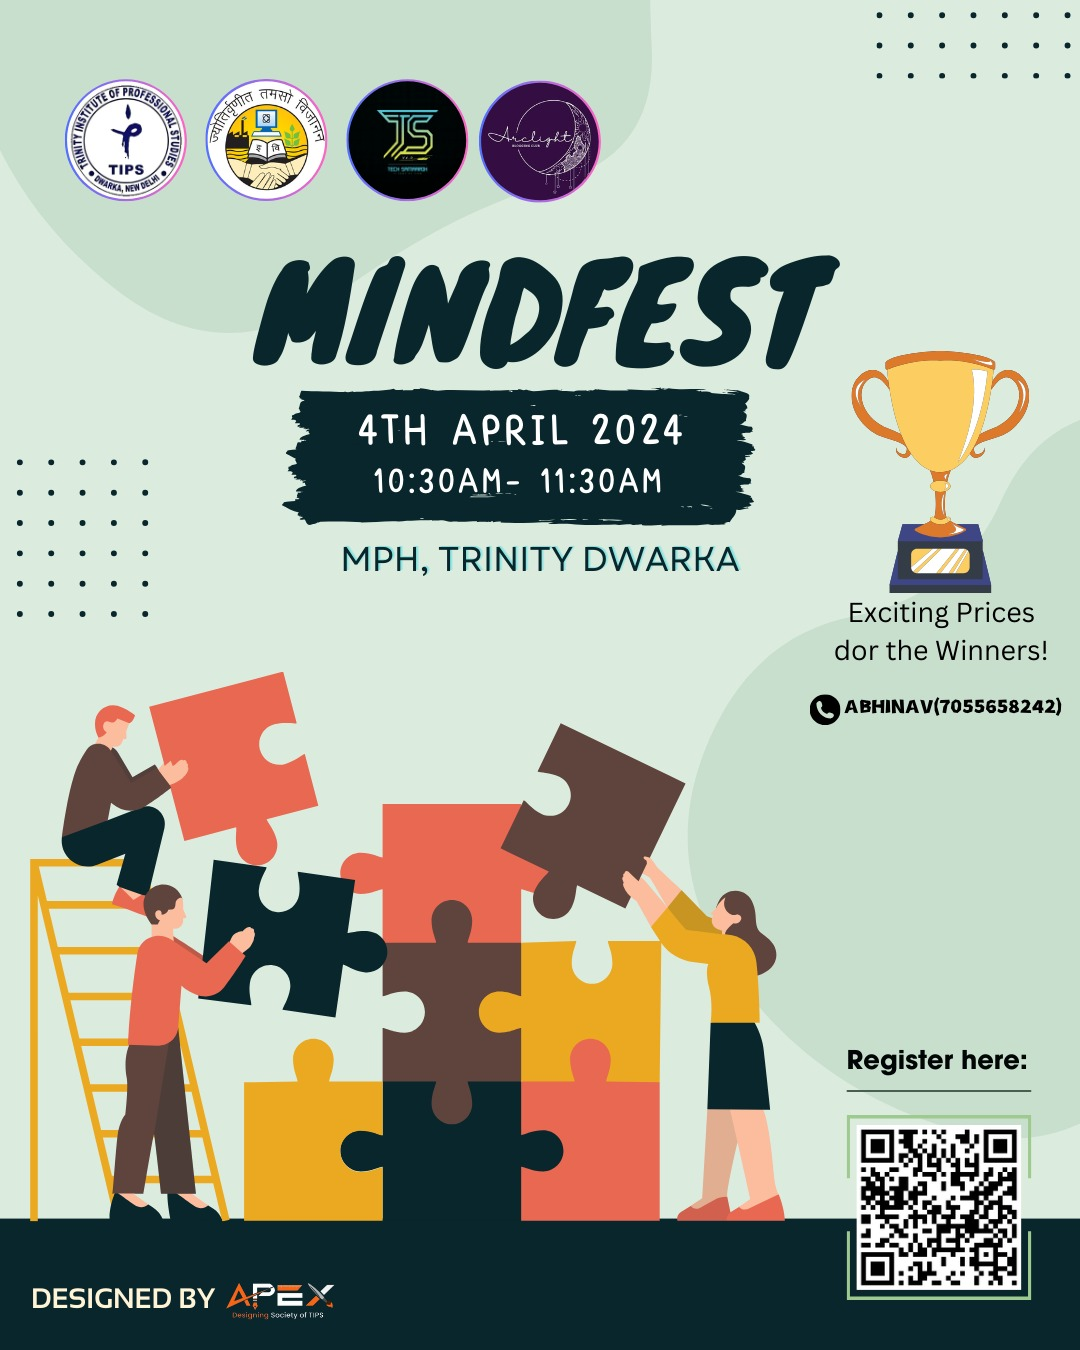
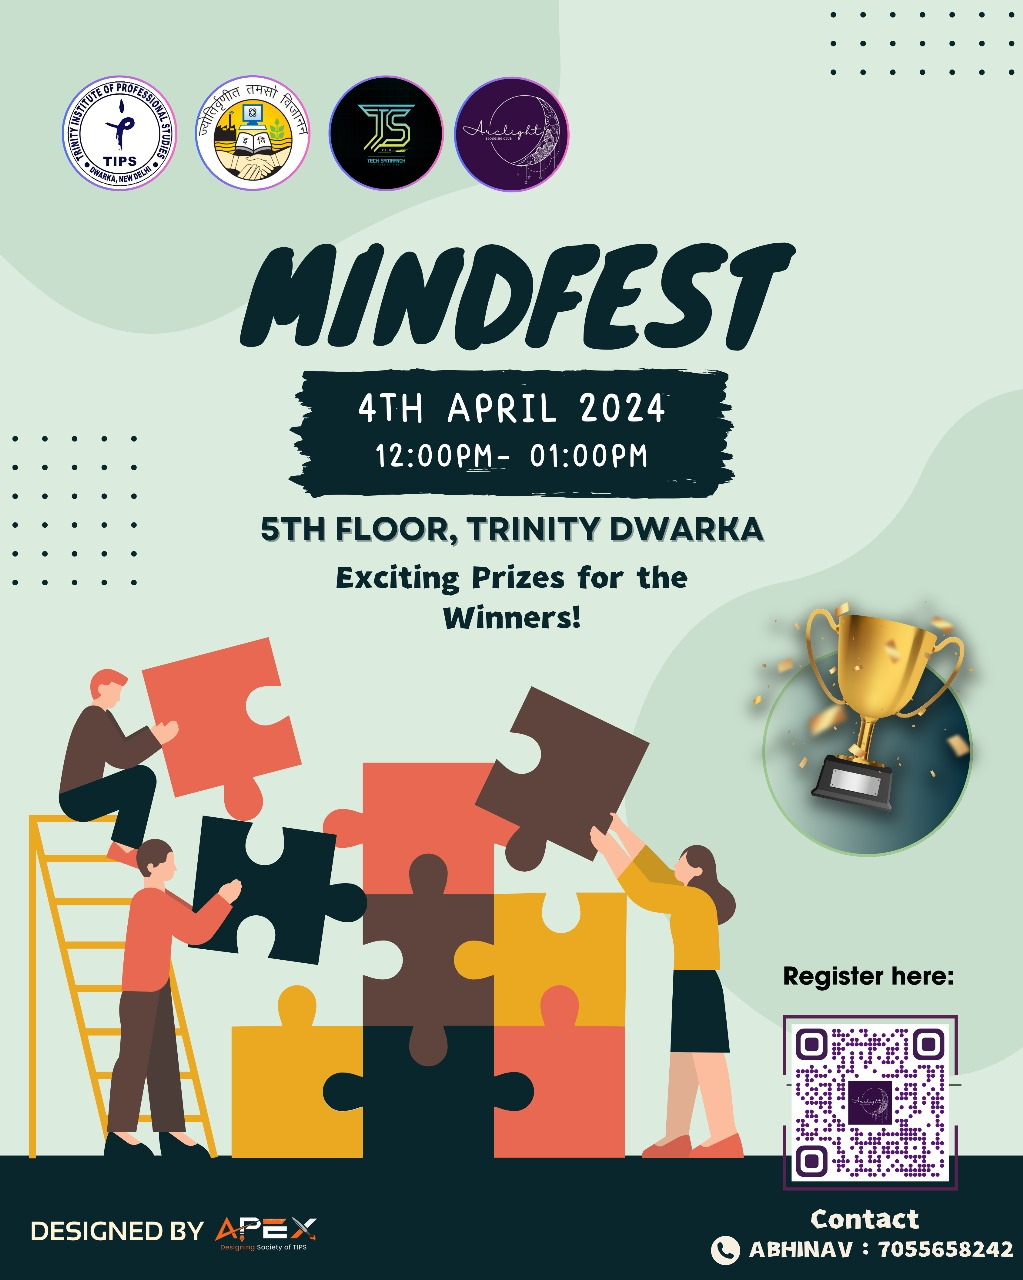
upfdhgfduiopqwer

diff --git a/index.html b/index.html
@@ -78,15 +78,6 @@
       </p>
     </div>
   </div>
-
-  <!-- 
-       aksh bhaiya se puchna hai!
-       1.title logo
-       2.compressing images to reduce load
-
-       * CSS at the top in the header.
-       * Javascript at the bottom of the file.
-  -->
   <div class="thirdPage w-full h-auto overflow-hidden" id="thirdPage">
     <div class="cardTop details h-[10vh] flex justify-center items-center">
       <h1 class="text-6xl font-medium text-white font-[poppins]" data-aos="zoom-in" data-aos-offset="120">Events</h1>
@@ -118,7 +109,7 @@
         <button><a href="html/Aimagination.html">Know More</a></button>
       </div>
       <div class="card card6" data-aos="zoom-in" data-aos-offset="200">
-        <img src="images/img4.png" alt="">
+        <img src="images/img4.jpg" alt="">
         <h1>Flag Pursuit</h1>
         <button><a href="html/flag-pursuit.html">Know More</a></button>
       </div>
@@ -138,7 +129,7 @@
         <button><a href="html/wordcraft.html">Know More</a></button>
       </div>
       <div class="card card10" data-aos="zoom-in" data-aos-offset="200">
-        <img src="images/img10.png" alt="">
+        <img src="images/img10.jpg" alt="">
         <h1>Nukkad Natak</h1>
         <button><a href="html/nukkadnatak.html">Know More</a></button>
       </div>

diff --git a/html/flag-pursuit.html b/html/flag-pursuit.html
@@ -5,7 +5,7 @@
     <meta charset="UTF-8">
     <meta name="viewport" content="width=device-width, initial-scale=1.0">
     <title>Flag Pursuit</title>
-    <link rel="icon" href="../images/logo.png" />
+    <link rel="icon" href="../images/TS.png" />
     <link rel="stylesheet" href="../css/style1.css">
     <script src="https://kit.fontawesome.com/e64b4eb724.js" crossorigin="anonymous"></script>
 </head>
@@ -24,7 +24,7 @@
     <div class="top">
         <div class="card">
             <div class="bannerimg bannerimg6">
-                <img src="../images/img4.png" alt="">
+                <img src="../images/img4.jpg" alt="">
             </div>
             <div class="innercard">
                 <h1>Flag Pursuit</h1><br>
@@ -82,7 +82,7 @@
                     </div>
                     <div class="card card3">
                         <h1>Venue</h1>
-                        <p>3rd Floor Lab</p>
+                        <p>3rd Floor</p>
                     </div>
                 </div>
                 <div class="btnregis">

diff --git a/html/mindfest.html b/html/mindfest.html
@@ -5,7 +5,7 @@
     <meta charset="UTF-8">
     <meta name="viewport" content="width=device-width, initial-scale=1.0">
     <title>Mind Fest</title>
-    <link rel="icon" href="../images/logo.png" />
+    <link rel="icon" href="../images/TS.png" />
     <link rel="stylesheet" href="../css/style1.css">
     <script src="https://kit.fontawesome.com/e64b4eb724.js" crossorigin="anonymous"></script>
 </head>
@@ -54,11 +54,11 @@
                         </div>
                         <div class="card card2">
                             <h1>Time</h1>
-                            <p>10:30 AM - 11:30 PM</p>
+                            <p>12:00 PM - 1:00 PM</p>
                         </div>
                         <div class="card card3">
                             <h1>Venue</h1>
-                            <p>MPH</p>
+                            <p>5th Floor</p>
                         </div>
                     </div>
                     <div class="btnregis">

diff --git a/html/wordcraft.html b/html/wordcraft.html
@@ -5,7 +5,7 @@
     <meta charset="UTF-8">
     <meta name="viewport" content="width=device-width, initial-scale=1.0">
     <title>WordCraft</title>
-    <link rel="icon" href="../images/logo.png" />
+    <link rel="icon" href="../images/TS.png" />
     <link rel="stylesheet" href="../css/style1.css">
     <script src="https://kit.fontawesome.com/e64b4eb724.js" crossorigin="anonymous"></script>
 </head>
@@ -52,11 +52,11 @@
                     </div>
                     <div class="card card2">
                         <h1>Time</h1>
-                        <p>12:00 PM - 1:00 PM</p>
+                        <p>10:30 AM - 11:00 AM</p>
                     </div>
                     <div class="card card3">
                         <h1>Venue</h1>
-                        <p>5th Floor</p>
+                        <p>MPH</p>
                     </div>
                 </div>
                 <div class="btnregis">

diff --git a/html/nukkadnatak.html b/html/nukkadnatak.html
@@ -5,7 +5,7 @@
     <meta charset="UTF-8">
     <meta name="viewport" content="width=device-width, initial-scale=1.0">
     <title>Nukkad Natak</title>
-    <link rel="icon" href="../images/logo.png" />
+    <link rel="icon" href="../images/TS.png" />
     <link rel="stylesheet" href="../css/style1.css">
     <script src="https://kit.fontawesome.com/e64b4eb724.js" crossorigin="anonymous"></script>
 </head>
@@ -24,7 +24,7 @@
     <div class="top">
         <div class="card">
             <div class="bannerimg bannerimg10">
-                <img src="../images/img10.png" alt="">
+                <img src="../images/img10.jpg" alt="">
             </div>
             <div class="innercard">
                 <h1>Tech Nukkad Natak</h1><br>

diff --git a/html/webdev_showdown.html b/html/webdev_showdown.html
@@ -5,7 +5,7 @@
     <meta charset="UTF-8">
     <meta name="viewport" content="width=device-width, initial-scale=1.0">
     <title>Web Dev Showdown</title>
-    <link rel="icon" href="../images/logo.png" />
+    <link rel="icon" href="../images/TS.png" />
     <link rel="stylesheet" href="../css/style1.css">
     <script src="https://kit.fontawesome.com/e64b4eb724.js" crossorigin="anonymous"></script>
 </head>
@@ -57,7 +57,7 @@
                     </div>
                     <div class="card card3">
                         <h1>Venue</h1>
-                        <p>3rd Floor Lab / 305</p>
+                        <p>6th Floor Lab</p>
                     </div>
                 </div>
                 <div class="btnregis">

diff --git a/html/Aimagination.html b/html/Aimagination.html
@@ -5,7 +5,7 @@
     <meta charset="UTF-8">
     <meta name="viewport" content="width=device-width, initial-scale=1.0">
     <title>AImagination</title>
-    <link rel="icon" href="../images/logo.png" />
+    <link rel="icon" href="../images/TS.png" />
     <link rel="stylesheet" href="../css/style1.css">
     <script src="https://kit.fontawesome.com/e64b4eb724.js" crossorigin="anonymous"></script>
 </head>
@@ -82,7 +82,7 @@
                     </div>
                     <div class="card card3">
                         <h1>Venue</h1>
-                        <p>3rd Floor Lab / 305</p>
+                        <p>6th Floor Lab</p>
                     </div>
                 </div>
                 <div class="btnregis">

diff --git a/html/e-sports.html b/html/e-sports.html
@@ -5,7 +5,7 @@
     <meta charset="UTF-8">
     <meta name="viewport" content="width=device-width, initial-scale=1.0">
     <title>E-Sports</title>
-    <link rel="icon" href="../images/logo.png" />
+    <link rel="icon" href="../images/TS.png" />
     <link rel="stylesheet" href="../css/style1.css">
     <script src="https://kit.fontawesome.com/e64b4eb724.js" crossorigin="anonymous"></script>
 </head>
@@ -73,7 +73,7 @@
                 </div>
                 <div class="card card2">
                     <h1>Time</h1>
-                    <p>11:00 AM - 3:00 PM</p>
+                    <p>12:00 PM - 3:00 PM</p>
                 </div>
                 <div class="card card3">
                     <h1>Venue</h1>

diff --git a/html/researchpaper.html b/html/researchpaper.html
@@ -5,7 +5,7 @@
     <meta charset="UTF-8">
     <meta name="viewport" content="width=device-width, initial-scale=1.0">
     <title>Research Paper Presentation</title>
-    <link rel="icon" href="../images/logo.png" />
+    <link rel="icon" href="../images/TS.png" />
     <link rel="stylesheet" href="../css/style1.css">
     <script src="https://kit.fontawesome.com/e64b4eb724.js" crossorigin="anonymous"></script>
 </head>

diff --git a/html/techyrecky.html b/html/techyrecky.html
@@ -5,7 +5,7 @@
     <meta charset="UTF-8">
     <meta name="viewport" content="width=device-width, initial-scale=1.0">
     <title>Tecky Recky</title>
-    <link rel="icon" href="../images/logo.png" />
+    <link rel="icon" href="../images/TS.png" />
     <link rel="stylesheet" href="../css/style1.css">
     <script src="https://kit.fontawesome.com/e64b4eb724.js" crossorigin="anonymous"></script>
 </head>

diff --git a/html/Ideathon.html b/html/Ideathon.html
@@ -5,7 +5,7 @@
     <meta charset="UTF-8">
     <meta name="viewport" content="width=device-width, initial-scale=1.0">
     <title>Ideathon</title>
-    <link rel="icon" href="../images/logo.png" />
+    <link rel="icon" href="../images/TS.png" />
     <link rel="stylesheet" href="../css/style1.css">
     <script src="https://kit.fontawesome.com/e64b4eb724.js" crossorigin="anonymous"></script>
 </head>
